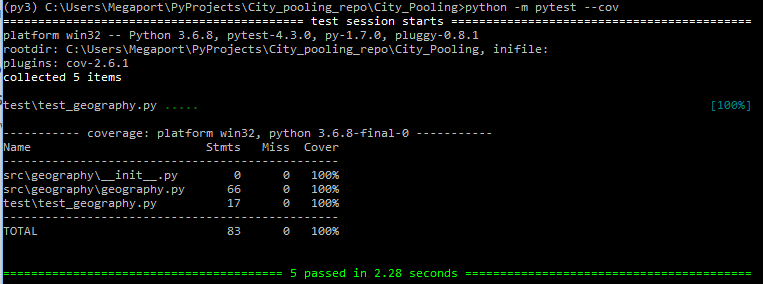
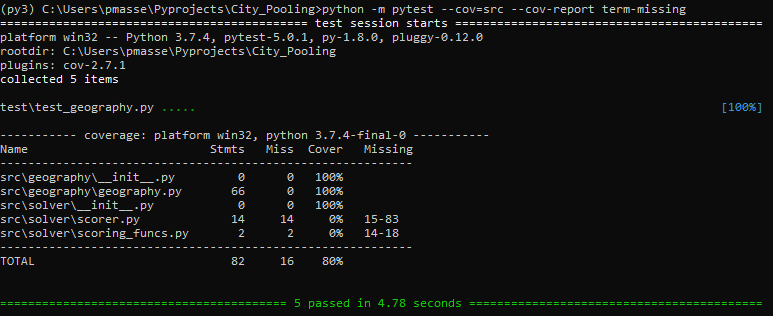
New command line for pytest specifying folder src for accurate coverage report

Changed region(s): [[0.0, 0.0, 1.0, 1.0]]

diff --git a/test/test_geography.py b/test/test_geography.py
@@ -1,5 +1,5 @@
 """
-Unit tests for the geography package
+Unit tests for the geography module
 """
 
 from src.geography import geography

diff --git a/test/test_solver.py b/test/test_solver.py
@@ -1,0 +1,3 @@
+"""
+Unit tests for the solver module
+"""

diff --git a/docs/source/Build and deploy.rst b/docs/source/Build and deploy.rst
@@ -142,7 +142,7 @@ simply use the following command line from the project root directory:
     echo.
     echo Running pytest...
     echo.
-    python -m pytest --cov
+    python -m pytest --cov=src --cov-report term-missing
 
 The `-m` option adds the current to the Python path, and during test discovery 
 pytest is then able to import sources packages.
